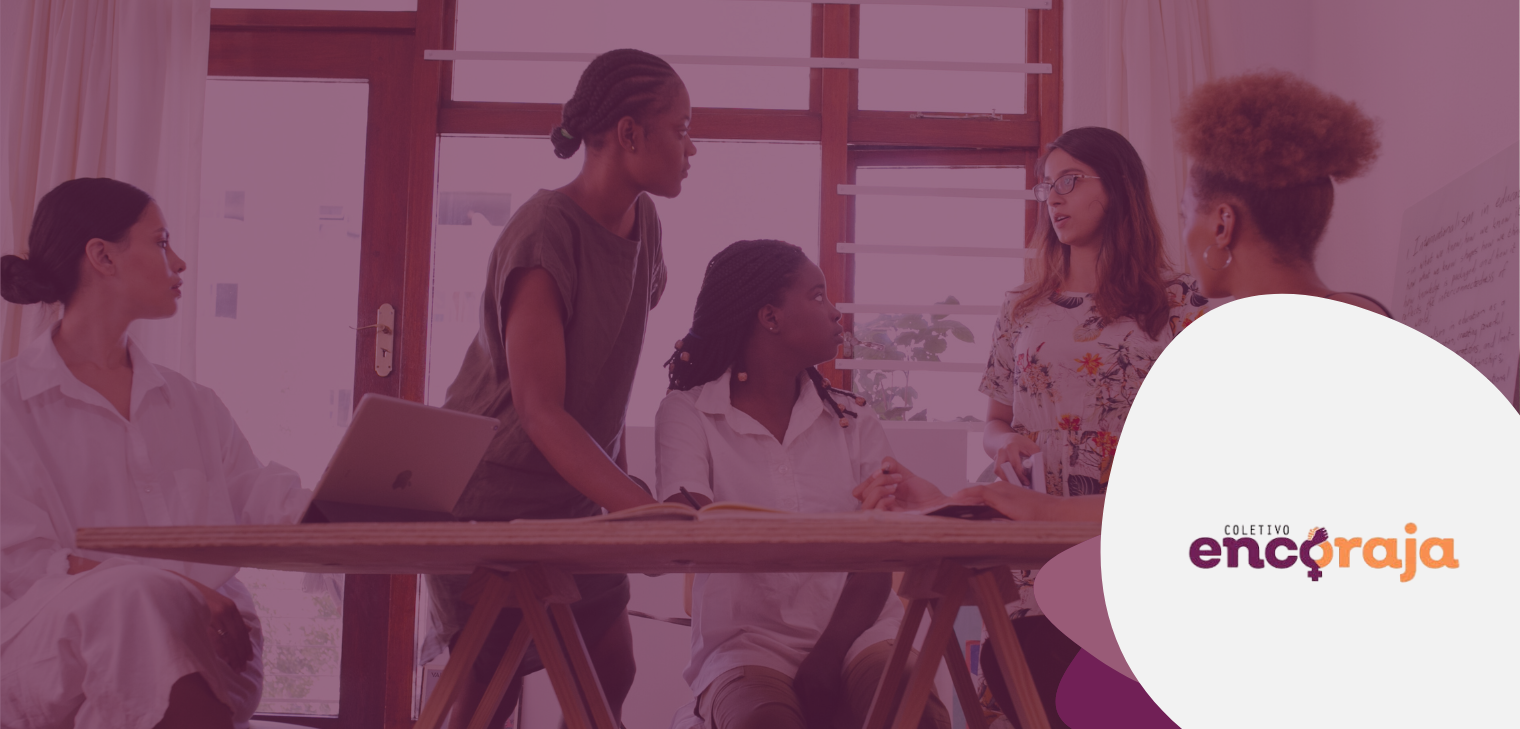
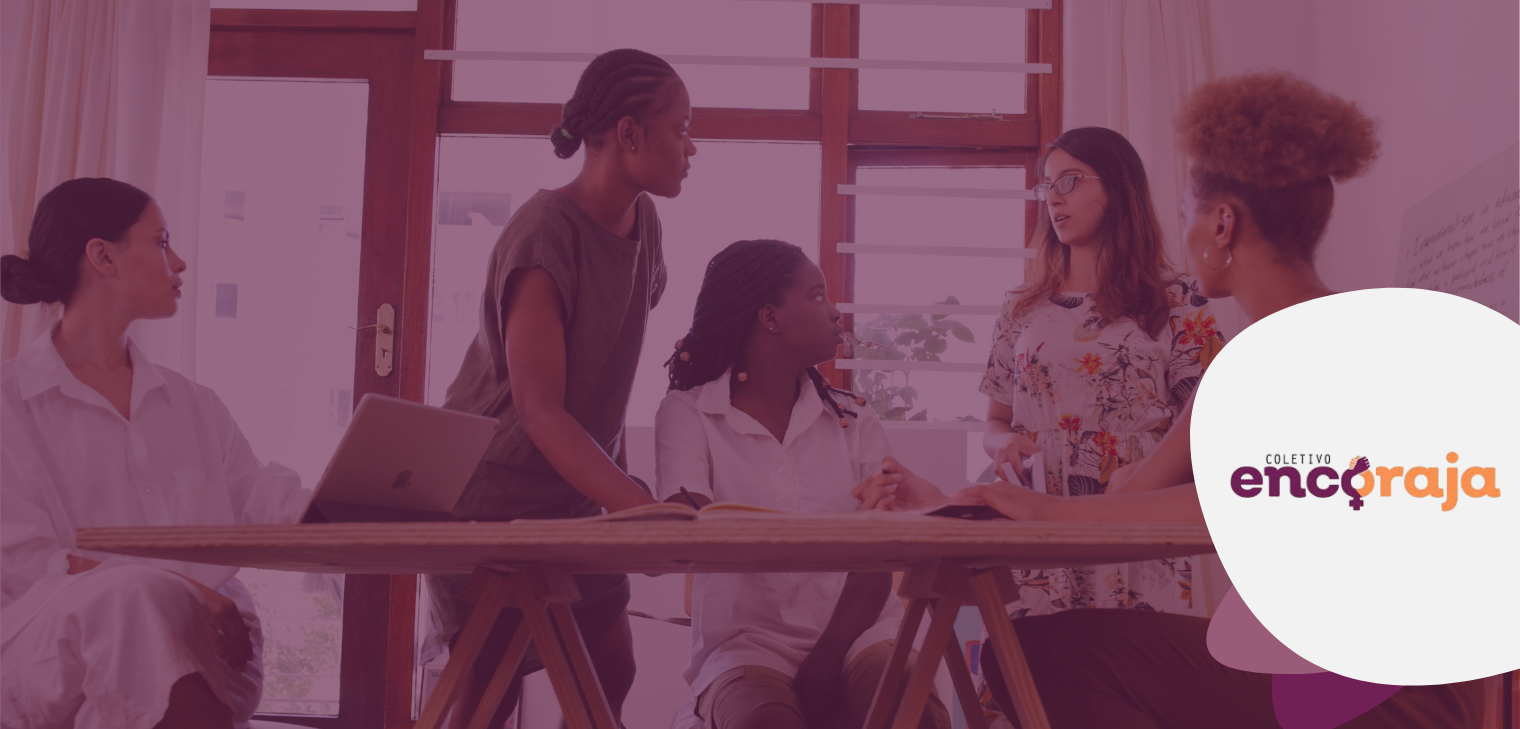
fix: SCRUM-329-Corrigir-desing-HomePage-front fix elements.

Changed region(s): [[0.6803, 0.3923, 1.0, 1.0]]

diff --git a/my-app/src/app/(homepage)/page.tsx b/my-app/src/app/(homepage)/page.tsx
@@ -7,6 +7,7 @@ import { EventsCard } from '@/components/homepage/events';
 export default function Home() {
   return (
     <>
+    <meta name="viewport" content="width=device-width, initial-scale=1.0"></meta>
   <div className="fixed top-0 left-0 w-full z-10">
         <Navbar />
       </div>
@@ -17,43 +18,48 @@ export default function Home() {
           style={{ backgroundImage: "url('/img/homepage1bg.png')" }}
         >
          
-          <div className="text-white font-bold text-5xl text-center max-w-[80%]">
-              <p>NÓS AJUDAMOS</p>
-              <h1>MULHERES</h1> 
-              <p>a romperem ciclos de violência e criar oportunidades de geração de renda e inclusão econômica!</p>
-          </div>
-        
+         <div style={{ display: 'flex', flexDirection: 'column', alignItems: 'center', justifyContent: 'center', height: '100vh', textAlign: 'center' }}>
+          <Label style={{ color: 'white', fontSize: '2rem', fontFamily: 'Rosario', marginBottom: '1rem', maxWidth: '80%' }}>Nós ajudamos</Label>
+          <Label style={{ color: 'white', fontSize: '8rem', fontFamily: 'Peace Sans', fontWeight: 'bold', maxWidth: '80%' }}>MULHERES</Label>
+          <Label style={{ color: 'white', fontSize: '2rem', fontFamily: 'Rosario', marginBottom: '1rem', maxWidth: '80%' }}>
+            a romperem ciclos de violência e criar oportunidades de geração de renda e inclusão econômica!
+          </Label>
+        </div>
+
         </div>
 
         <div 
           id="about-us" 
-          className="grid grid-cols-3 gap-4 h-screen items-center bg-no-repeat bg-cover bg-center m-0 p-0"
+          className="w-full min-h-screen bg-no-repeat bg-cover bg-center p-8"
           style={{ backgroundImage: "url('/img/homepage2bg.png')" }}
         >
-
-          <div id='about-us' className="grid grid-cols-3 gap-4 h-screen flex items-center">
+          <div className="grid grid-cols-1 sm:grid-cols-2 lg:grid-cols-3 gap-4 items-start">
             <AboutUsCard
-            title="Quem somos?"
-            content="Um Coletivo de mulheres que atuam no combate à violência doméstica e abuso infantil. Oferecendo cursos que capacitam mulheres visando atingir a independência financeira (como por exemplo: oficinas de costura, pintura, entre outros)." 
+              icon="img/iconencoraja2.png"
+              title="Quem somos?"
+              content="Um Coletivo de mulheres que atuam no combate à violência doméstica e abuso infantil. Oferecendo cursos que capacitam mulheres visando atingir a independência financeira (como por exemplo: oficinas de costura, pintura, entre outros)." 
             />
             <AboutUsCard
-            title="Nossa Missão?"
-            content="Empoderar mulheres através do acolhimento, capacitação profissional e orientação, promovendo sua autonomia e abrindo caminhos para uma vida digna e independente."
+              icon="img/iconmission.png"
+              title="Nossa Missão?"
+              content="Empoderar mulheres através do acolhimento, capacitação profissional e orientação, promovendo sua autonomia e abrindo caminhos para uma vida digna e independente."
             />
             <AboutUsCard
-            title="Diferencial"
-            content="Com programas de capacitação focados no desenvolvimento financeiro e profissional, oferecemos suporte personalizado para que cada mulher atinja seus objetivos de independência."
+              icon="img/icondifferential.png"
+              title="Diferencial"
+              content="Com programas de capacitação focados no desenvolvimento financeiro e profissional, oferecemos suporte personalizado para que cada mulher atinja seus objetivos de independência."
             />
             <AboutUsCard
-            title="Visão"
-            content="Ser uma referência no apoio ao desenvolvimento pessoal e financeiro de mulheres, inspirando e capacitando para que se tornem agentes de transformação em suas comunidades."
+              icon="img/iconvision.png"
+              title="Visão"
+              content="Ser uma referência no apoio ao desenvolvimento pessoal e financeiro de mulheres, inspirando e capacitando para que se tornem agentes de transformação em suas comunidades."
             />
             <AboutUsCard
-            title="Valores"
-            content="Valorizamos o respeito, a diversidade, a ética e a transparência em todas as nossas ações, promovendo um ambiente de de acolhimento e seguro. Acreditamos no poder de cada mulher de construir um futuro com mais oportunidades e igualdade" 
+              icon="img/iconvalues.png"
+              title="Valores"
+              content="Valorizamos o respeito, a diversidade, a ética e a transparência em todas as nossas ações, promovendo um ambiente de acolhimento e seguro. Acreditamos no poder de cada mulher de construir um futuro com mais oportunidades e igualdade" 
             />
           </div>
-
         </div>
 
 
@@ -64,10 +70,11 @@ export default function Home() {
           >
             <div>
             </div>
-            <div>
-              <Label className="text-[#73225D] text-4xl mb-4 text-center">Sobre as fundadoras</Label>
-              <Label className="text-[#73225D] text-sm text-justify max-w-[80%]">
-                Lorem ipsum dolor sit amet consectetur, adipisicing elit. Consequuntur ipsam officia accusamus earum ducimus est cupiditate aperiam itaque molestias tempora animi optio laborum nisi recusandae, cumque ut vitae ratione at.
+
+            <div className="grid grid-cols-1 sm:grid-cols-2 lg:grid-cols-3 gap-y-0.5 gap-x-0.5 h-auto py-10" style={{ display: 'flex', flexDirection: 'column', alignItems: 'center', justifyContent: 'center', height: '100vh', textAlign: 'center' }}>
+              <Label className="text-[#73225D] md:text-3xl" style={{ fontSize: '3rem', fontFamily: 'Peace Sans', fontWeight: 'bold', maxWidth: '80%' }}>Sobre as fundadoras</Label>
+              <Label className="text-[#73225D] md:text-3xl" style={{ fontSize: '2rem', fontFamily: 'Rosario', marginBottom: '1rem', maxWidth: '80%' }}>
+              Lorem ipsum dolor sit amet consectetur, adipisicing elit. Consequuntur ipsam officia accusamus earum ducimus est cupiditate aperiam itaque molestias tempora animi optio laborum nisi recusandae, cumque ut vitae ratione at.
               </Label>
             </div>
           </div>
@@ -76,15 +83,17 @@ export default function Home() {
             id="events"
             className="w-full min-h-screen flex flex-col items-center justify-center bg-no-repeat bg-cover bg-center p-8"
             style={{ backgroundImage: "url('/img/homepage4bg.png')" }}
-          >
-            {/* Título da seção de eventos */}
-            <div className="text-center mb-8">
-              <Label className="text-3xl">Projetos que transformam vidas</Label>
-              <Label className="text-xl mt-2">Conheça nossos projetos e faça parte dessa transformação</Label>
+            >
+            <div className="text-center md:mb-8 flex flex-col items-center">
+              <Label className="text-[#F2F2F2] text-3xl font-bold" style={{ fontSize: '3rem', fontFamily: 'Peace Sans' }}>
+                Projetos que transformam vidas
+              </Label>
+              <Label className="text-[#F2F2F2] text-xl mt-2 italic" style={{ fontSize: '2rem', fontFamily: 'Peace Sans' }}>
+                Conheça nossos projetos e faça parte dessa transformação
+              </Label>
             </div>
 
-            {/* Cards de eventos */}
-            <div className="grid grid-cols-1 sm:grid-cols-2 lg:grid-cols-3 gap-6 w-full max-w-screen-lg">
+            <div className="grid gap-6 mt-6 w-full max-w-5xl grid-cols-1 sm:grid-cols-2 lg:grid-cols-3 xl:grid-cols-4">
               <EventsCard 
                 img={<img src="img/events/instituto-ama.jpeg" alt="instituto-ama" />}
                 title="Instituto Ama"
@@ -108,39 +117,45 @@ export default function Home() {
             </div>
           </div>
 
+
           <div 
-            id='partners'
-            className="w-full min-h-screen flex flex-col items-center justify-center bg-no-repeat bg-cover bg-center p-8"
+            id="partners"
+            className="w-full min-h-screen flex flex-col items-center justify-start bg-no-repeat bg-cover bg-center p-8"
             style={{ backgroundImage: "url('/img/homepage5bg.png')" }}
           >
-            <div className='flex flex-col items-center justify-center'>
-              <Label className="text-3xl">Nossos parceiros e apoiadores</Label>
+            <div className="flex flex-col items-center justify-start pt-12"> 
+              <Label className="text-[#F2F2F2] text-3xl font-bold text-center" style={{ fontSize: '2rem', fontFamily: 'Peace Sans', fontWeight: 'bold', marginBottom: '1rem', maxWidth: '80%' }}>Nossos parceiros e apoiadores</Label>
+              
+              <div className="grid grid-cols-2 sm:grid-cols-4 gap-6 mt-6">
+                <img 
+                  src="img/partners/luar-da-baronesa.png" 
+                  className="max-w-full max-h-[150px] object-contain"
+                  alt="Luar da Baronesa"
+                />
+                <img 
+                  src="img/partners/cebrac.png" 
+                  className="max-w-full max-h-[150px] object-contain"
+                  alt="Cebrac"
+                />
+                <img 
+                  src="img/partners/elas-ong.png" 
+                  className="max-w-full max-h-[150px] object-contain"
+                  alt="Elas"
+                />
+                <img 
+                  src="img/partners/mulheres-em-movimento.png" 
+                  className="max-w-full max-h-[150px] object-contain"
+                  alt="Mulheres em movimento"
+                />
+              </div>
             </div>
-            <div className="grid grid-cols-4 gap-4 mt-6">
-              <img 
-                src="img/partners/luar-da-baronesa.png" 
-                className="max-w-full max-h-[150px] object-contain"
-                alt="Luar da Baronesa"
-              />
-              <img 
-                src="img/partners/cebrac.png" 
-                className="max-w-full max-h-[150px] object-contain"
-                alt="Cebrac"
-              />
-              <img 
-                src="img/partners/elas-ong.png" 
-                className="max-w-full max-h-[150px] object-contain"
-                alt="Elas"
-              />
-              <img 
-                src="img/partners/mulheres-em-movimento.png" 
-                className="max-w-full max-h-[150px] object-contain"
-                alt="Mulheres em movimento"
-              />
-            </div>
-            <Label className='m-8 text-3xl'>Contatos</Label>
-          </div>  
-      </div>
+
+            <Label className="text-[#73225D] sm:mt-60 text-3xl" style={{ fontSize: '2rem', fontFamily: 'Peace Sans', fontWeight: 'bold', marginBottom: '1rem', maxWidth: '80%' }}>
+              Contatos
+            </Label>
+          </div>
+
+        </div>
   </>
   );
 }

diff --git a/my-app/src/components/homepage/about-us.tsx b/my-app/src/components/homepage/about-us.tsx
@@ -1,17 +1,22 @@
 import * as React from "react";
 import { CardTitle, CardContent } from "@/components/ui/card";
 
-export function AboutUsCard({ title, content }: { title: string, content: any }) {
+export function AboutUsCard({ icon, title, content }: { icon: string, title: string, content: any }) {
   return (
-    <div className="h-[250px] w-[400px] bg-transparent m-0 p-0">
-      <div className="bg-transparent">
-        <CardTitle className="ml-5 text-[#F2F2F2]">
+    <div className="w-[400px] bg-transparent m-0 p-0 text-center">
+    <div className="bg-transparent p-4">
+      {/* Ícone centralizado e com tamanho fixo */}
+      <img src={icon} alt={`${title} icon`} className="w-16 h-16 mx-auto mb-4" />
+
+      <div className="bg-transparent p-4 text-center">
+        <CardTitle className="text-[#F2F2F2] text-xl font-bold mb-2">
           {title}
         </CardTitle>
-        <CardContent className="mt-4 text-[#F2F2F2]">
+        <CardContent className="text-[#F2F2F2] text-base">
           {content}
         </CardContent>
       </div>  
+    </div>
     </div>
   );
 }
